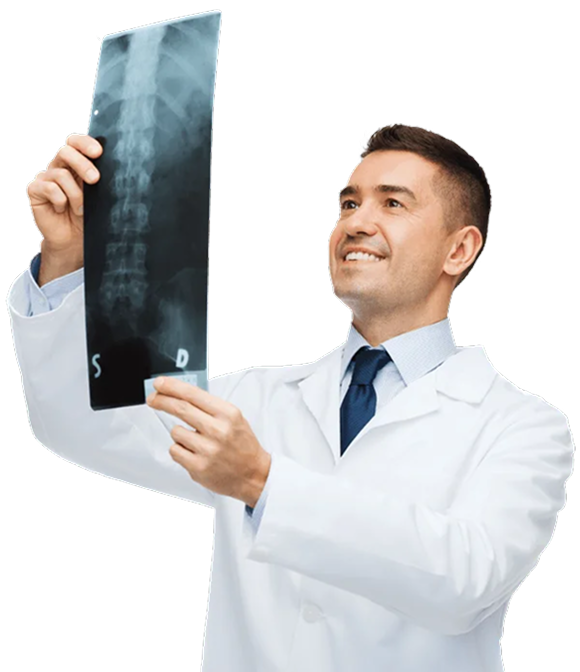
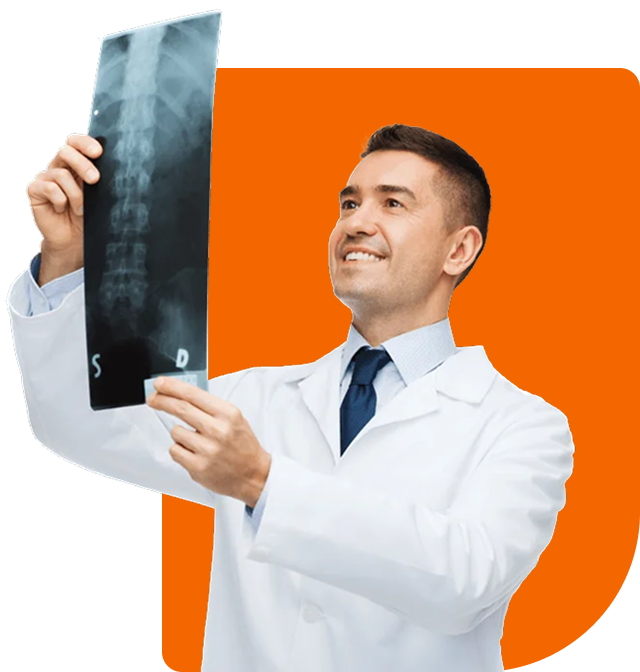
working in the about section

diff --git a/src/components/Home/AboutUsSection/Index.jsx b/src/components/Home/AboutUsSection/Index.jsx
@@ -65,97 +65,102 @@ const AboutUsSection = () => {
             initial="hidden"
             whileInView="visible"
             viewport={viewportOptions}
-            className="relative"
+            className="relative grid pt-16 grid-cols-1 lg:grid-cols-2 gap-1 lg:gap-1 items-center"
           >
             {/* Female Doctor */}
-            <motion.div
-              initial={{ opacity: 0, y: 50 }}
-              whileInView={{ opacity: 1, y: 0 }}
-              viewport={viewportOptions}
-              transition={{ duration: 0.8, delay: 0.2 }}
-              className="relative mb-8"
-            >
-              <div className="relative bg-[#F46700] rounded-3xl p-4 sm:p-6 overflow-hidden">
-                <div className="relative z-10">
-                  <Image
-                    src="/images/HomeAboutUs/LeftFemaleDoctor.png"
-                    alt="Female Doctor"
-                    width={400}
-                    height={500}
-                    className="object-contain w-full h-auto"
-                  />
-                </div>
-              </div>
-
-              {/* ISO Certification Badge */}
+            <div className="w-full">
               <motion.div
-                initial={{ opacity: 0, scale: 0 }}
-                whileInView={{ opacity: 1, scale: 1 }}
+                initial={{ opacity: 0, y: 50 }}
+                whileInView={{ opacity: 1, y: 0 }}
                 viewport={viewportOptions}
-                transition={{ duration: 0.6, delay: 0.5, type: "spring" }}
-                className="absolute top-4 right-4 sm:top-8 sm:right-8 z-20"
+                transition={{ duration: 0.8, delay: 0.2 }}
+                className="relative mb-8 w-full h-[400px] rounded-3xl  sm:p-6"
               >
                 <Image
-                  src="/images/HomeAboutUs/certificationImage.png"
-                  alt="ISO 9001 Quality Management Certification"
-                  width={150}
-                  height={150}
-                  className="object-contain"
+                  src="/images/HomeAboutUs/LeftFemaleDoctor.png"
+                  alt="Female Doctor"
+                  fill
+                  className="object-contain  w-full h-auto"
                 />
+
+                {/* ISO Certification Badge */}
               </motion.div>
-            </motion.div>
 
-            {/* Patient Count Statistic */}
-            <motion.div
-              initial={{ opacity: 0, x: -30 }}
-              whileInView={{ opacity: 1, x: 0 }}
-              viewport={viewportOptions}
-              transition={{ duration: 0.6, delay: 0.4 }}
-              className="mb-6"
-            >
-              <div className="text-6xl sm:text-7xl font-bold text-[#1a1a2e] mb-2">
-                25K
-              </div>
-              <p className="text-lg text-[#4A4A4A]">
-                <span className="text-[#F46700] font-semibold">
-                  Patients Cared
-                </span>{" "}
-                With Compassion
-              </p>
-            </motion.div>
-
-            {/* Descriptive Text */}
-            <motion.p
-              initial={{ opacity: 0, y: 20 }}
-              whileInView={{ opacity: 1, y: 0 }}
-              viewport={viewportOptions}
-              transition={{ duration: 0.6, delay: 0.6 }}
-              className="text-base text-[#4A4A4A] mb-8 max-w-md"
-            >
-              Providing exceptional healthcare built on empathy, trust, and
-              long-term patient relationships across all ages.
-            </motion.p>
-
-            {/* Male Doctor */}
-            <motion.div
-              initial={{ opacity: 0, y: 50 }}
-              whileInView={{ opacity: 1, y: 0 }}
-              viewport={viewportOptions}
-              transition={{ duration: 0.8, delay: 0.8 }}
-              className="relative"
-            >
-              <div className="relative bg-[#F46700] rounded-3xl p-4 sm:p-6 overflow-hidden">
-                <div className="relative z-10">
+              {/* Patient Count Statistic */}
+              <motion.div
+                initial={{ opacity: 0, x: -30 }}
+                whileInView={{ opacity: 1, x: 0 }}
+                viewport={viewportOptions}
+                transition={{ duration: 0.6, delay: 0.4 }}
+                className="mb-6 flex gap-2 justify-center lg:justify-start"
+              >
+                <div className="text-6xl sm:text-5xl font-bold text-[#1a1a2e] mb-2">
+                  25K
+                </div>
+                <p className="text-lg text-[#4A4A4A]">
+                  <span className="text-[#F46700] font-semibold block">
+                    Patients Cared
+                  </span>{" "}
+                  <span className="text-[#1a1a2e] font-bold">
+                    With Compassion
+                  </span>
+                </p>
+              </motion.div>
+              {/* Descriptive Text */}
+              <motion.p
+                initial={{ opacity: 0, y: 20 }}
+                whileInView={{ opacity: 1, y: 0 }}
+                viewport={viewportOptions}
+                transition={{ duration: 0.6, delay: 0.6 }}
+                className="text-base text-[#4A4A4A] mb-8 max-w-md mx-auto lg:mx-0"
+              >
+                Providing exceptional healthcare built on empathy, trust, and
+                long-term patient relationships across all ages.
+              </motion.p>
+            </div>
+            <div>
+              <div className="flex  gap-2">
+                <motion.div
+                  initial={{ opacity: 0, scale: 0 }}
+                  whileInView={{ opacity: 1, scale: 1 }}
+                  viewport={viewportOptions}
+                  transition={{ duration: 0.6, delay: 0.5, type: "spring" }}
+                >
                   <Image
-                    src="/images/HomeAboutUs/RightMaleDcotor.png"
-                    alt="Male Doctor"
-                    width={400}
-                    height={500}
-                    className="object-contain w-full h-auto"
+                    src="/images/HomeAboutUs/certificationImage.png"
+                    alt="ISO 9001 Quality Management Certification"
+                    width={80}
+                    height={80}
+                    className="object-contain"
                   />
+                </motion.div>
+                <div>
+                  <p className="text-sm text-[#F46700]">ISO 9001</p>
+                  <h3 className="text-xl font-bold text-[#1a1a2e] mb-2">
+                    {" "}
+                    Quality Management Certification
+                  </h3>
                 </div>
               </div>
-            </motion.div>
+
+              {/* Male Doctor */}
+              <motion.div
+                initial={{ opacity: 0, y: 50 }}
+                whileInView={{ opacity: 1, y: 0 }}
+                viewport={viewportOptions}
+                transition={{ duration: 0.8, delay: 0.2 }}
+                className="relative mb-8 w-full h-[400px] rounded-3xl  sm:p-6"
+              >
+                <Image
+                  src="/images/HomeAboutUs/RightMaleDcotor.png"
+                  alt="Female Doctor"
+                  fill
+                  className="object-contain  w-full h-auto"
+                />
+
+                {/* ISO Certification Badge */}
+              </motion.div>
+            </div>
           </motion.div>
 
           {/* Right Section - Content */}
@@ -176,8 +181,9 @@ const AboutUsSection = () => {
             {/* Main Heading */}
             <motion.div variants={itemVariants}>
               <h2 className="text-4xl sm:text-5xl lg:text-6xl font-bold leading-tight">
-                <span className="text-[#1a1a2e]">Healthcare made simple, for</span>
-                <br />
+                <span className="text-[#1a1a2e]">
+                  Healthcare made simple, for
+                </span>{" "}
                 <span className="text-[#F46700]">everyone</span>
               </h2>
             </motion.div>
@@ -187,16 +193,13 @@ const AboutUsSection = () => {
               variants={itemVariants}
               className="text-lg text-[#4A4A4A] leading-relaxed max-w-xl"
             >
-              We treat medicine as more than science. It&apos;s a journey of hope,
-              guided by compassion, courage, and a commitment to help you live
-              healthier, longer, and happier.
+              We treat medicine as more than science. It&apos;s a journey of
+              hope, guided by compassion, courage, and a commitment to help you
+              live healthier, longer, and happier.
             </motion.p>
 
             {/* Features List */}
-            <motion.div
-              variants={itemVariants}
-              className="space-y-4"
-            >
+            <motion.div variants={itemVariants} className="space-y-4">
               {features.map((feature, index) => (
                 <motion.div
                   key={index}
@@ -215,10 +218,7 @@ const AboutUsSection = () => {
             </motion.div>
 
             {/* CTA Button */}
-            <motion.div
-              variants={itemVariants}
-              className="pt-4"
-            >
+            <motion.div variants={itemVariants} className="pt-4">
               <ThemeButton variant="primary" size="lg" isArrowIcon={true}>
                 Find a Doctor
               </ThemeButton>
